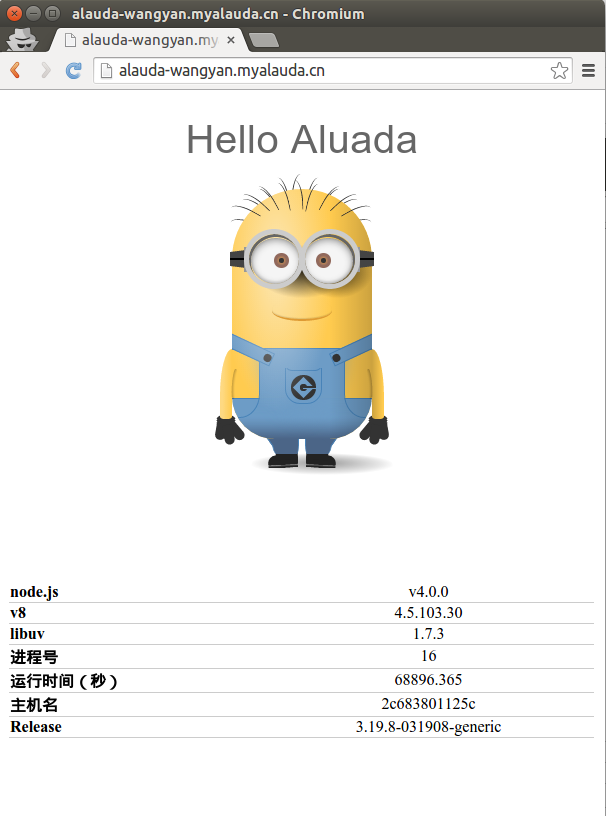
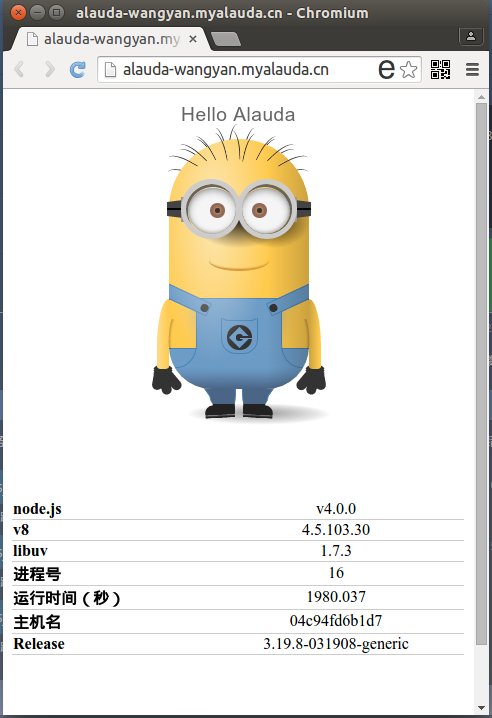
redis and scalability

Changed region(s): [[0.0, 0.0, 1.0, 1.0], [0.3049, 0.1532, 0.7012, 0.6128]]

diff --git a/public/index.html b/public/index.html
@@ -98,6 +98,7 @@
     <title></title>
     <link href="default.css" rel="stylesheet"/>
     <link href="styles.css" rel="stylesheet"/>
+    <script type='text/javascript'>window.BWEUM||(BWEUM={});BWEUM.info = {"stand":true,"agentType":"browser","agent":"tpm.oneapm.com/static/js/bw-send-411.4.5.js","beaconUrl":"tpm.oneapm.com/beacon","licenseKey":"Jib~uMZRriyjU2aE","applicationID":2270068};</script><script type="text/javascript">/*!OneAPM-v411.4.5 */!function(){window.NREUM||(window.NREUM={}),window.BWEUM||(window.BWEUM=window.NREUM);var a;window.BWEUM.require=a,window.apmFirstbyte=window.apmUserFirstbyte||(new Date).getTime(),a=function b(c,d,e){function f(h,i){if(!d[h]){if(!c[h]){var j="function"==typeof a&&a;if(!i&&j)return j(h,!0);if(g)return g(h,!0);var k=new Error("Cannot find module '"+h+"'");throw k.code="MODULE_NOT_FOUND",k}var l=d[h]={exports:{}};c[h][0].call(l.exports,function(a){var b=c[h][1][a];return f(b?b:a)},l,l.exports,b,c,d,e)}return d[h].exports}for(var g="function"==typeof a&&a,h=0;h<e.length;h++)f(e[h]);return f}({38:[function(a,b){b.exports=function(a){var b=document.createElement("a"),c=window.location,d={};b.href=a,d.port=b.port;var e=b.href.split("://");return!d.port&&e[1]&&(d.port=e[1].split("/")[0].split(":")[1]),d.port&&"0"!==d.port||(d.port="https"===e[0]?"443":"80"),d.hostname=b.hostname||c.hostname,d.pathname=b.pathname,"/"!==d.pathname.charAt(0)&&(d.pathname="/"+d.pathname),d.sameOrigin=!b.hostname||b.hostname===document.domain&&b.port===c.port&&b.protocol===c.protocol,d}},{}],34:[function(a,b){function c(){var a=m.info=window.BWEUM.info;if(a&&a.agent&&a.licenseKey&&a.applicationID&&i&&i.body){m.proto="https"===l.split(":")[0]||a.sslForHttp?"https://":"http://",g("mark",["onload",f()]);var b=i.createElement("script");b.src=0==a.agent.indexOf("//")?a.agent:m.proto+a.agent,b.src+="?v=411.4.5 ",i.body.appendChild(b)}}function d(){o||"complete"===i.readyState&&e()}function e(){g("mark",["domContent",f()])}function f(){return(new Date).getTime()}var g=a("handle"),h=window,i=h.document,j="addEventListener",k="attachEvent",l=(""+location).split("?")[0],m=b.exports={offset:window.apmFirstbyte||f(),origin:l,features:{}};g("mark",["firstbyte",window.apmFirstbyte||f()]),"complete"===document.readyState?(e(),c()):i[j]?(i[j]("DOMContentLoaded",e,!1),h[j]("load",c,!1)):(i[k]("onreadystatechange",d),h[k]("onload",c));var n=!1,o=!1;try{n=null==window.frameElement&&document.documentElement}catch(m){}n&&n.doScroll&&!function p(){if(!o){try{n.doScroll("left")}catch(a){return setTimeout(p,50)}o=!0,e()}}()},{handle:33}],33:[function(a,b){function c(a,b,c){return d.listeners(a).length?d.emit(a,b,c):(e[a]||(e[a]=[]),void e[a].push(b))}var d=a("ee").create(),e={};b.exports=c,c.ee=d,d.q=e},{ee:31}],36:[function(a,b){function c(a,b,c){b||(b=0),"undefined"==typeof c&&(c=a?a.length:0);for(var d=-1,e=c-b||0,f=new Array(0>e?0:e);++d<e;)f[d]=a[b+d];return f}b.exports=c},{}],31:[function(a,b){function c(a){function b(b,c,g){a&&a(b,c,g),g||(g={});var i=h(b),j=i.length,k={};try{k=f(g,e,d)}catch(l){}for(var m=0;j>m;m++)i[m].apply(k,c);return k}function g(a,b){j[a]=h(a).concat(b)}function h(a){return j[a]||[]}function i(){return c(b)}var j={};return{on:g,emit:b,create:i,listeners:h,_events:j}}function d(){return{}}var e="bw@context",f=a("gos");b.exports=c()},{gos:32}],32:[function(a,b){function c(a,b,c){if(d.call(a,b))return a[b];var e=c();if(Object.defineProperty&&Object.keys)try{return Object.defineProperty(a,b,{value:e,writable:!0,enumerable:!1}),e}catch(f){}try{a[b]=e}catch(f){}return e}var d=Object.prototype.hasOwnProperty;b.exports=c},{}]},{},[]),a=function c(b,d,e){function f(h,i){if(!d[h]){if(!b[h]){var j="function"==typeof a&&a;if(!i&&j)return j(h,!0);if(g)return g(h,!0);var k=new Error("Cannot find module '"+h+"'");throw k.code="MODULE_NOT_FOUND",k}var l=d[h]={exports:{}};b[h][0].call(l.exports,function(a){var c=b[h][1][a];return f(c?c:a)},l,l.exports,c,b,d,e)}return d[h].exports}for(var g="function"==typeof a&&a,h=0;h<e.length;h++)f(e[h]);return f}({1:[function(a){a("loader"),a("errorload"),a("xhrload"),a("perfload")},{errorload:5,loader:34,perfload:6,xhrload:7}],7:[function(a){function b(a){if("string"==typeof a&&a.length)return a.length;if("object"!=typeof a)return void 0;if("undefined"!=typeof ArrayBuffer&&a instanceof ArrayBuffer&&a.byteLength)return a.byteLength;if("undefined"!=typeof Blob&&a instanceof Blob&&a.size)return a.size;if("undefined"!=typeof FormData&&a instanceof FormData)return void 0;try{return JSON.stringify(a).length}catch(b){return void 0}}function c(a,b){return b}function d(a){a.send=o.wrapOld(a.send,"send-xhr-",c),a.onreadystatechange=o.wrapOld(a.onreadystatechange,"iexhr-onreadystatechange-",c),a.onerror=o.wrapOld(a.onerror,"iexhr-onerror-",c)}function e(a){var c=this.params,d=this.metrics;if(!this.ended){if(this.ended=!0,a.removeEventListener)for(var e=0;m>e;e++)a.removeEventListener(l[e],this.listener,!1);if(!c.aborted){if(d.duration=(new Date).getTime()-this.startTime,4===a.readyState){c.status=a.status;var f=a.responseType,g="arraybuffer"===f||"blob"===f||"json"===f?a.response:a.responseText,h=b(g);h&&(d.rxSize=h)}else c.status=0;d.cbTime=this.cbTime,c&&c.pathname&&c.pathname.indexOf("beacon/resources")<0&&i("xhr",[c,d,this.startTime,this.creatType])}}}function f(a,b){var c=j(b),d=a.params;d.host=c.hostname+":"+c.port,d.pathname=c.pathname,a.sameOrigin=c.sameOrigin}var g=window,h=(g.performance,window.XMLHttpRequest);if(h&&h.prototype&&!/CriOS/.test(navigator.userAgent)){a("loader").features.xhr=!0;var i=a("handle"),j=a("parse-url"),k=a("ee"),l=["load","error","abort","timeout"],m=l.length,n=a("loader_id"),o=a("wrap-function")(k);a("wrap-events"),a("wrap-xhr"),k.on("new-xhr",function(){this.totalCbs=0,this.called=0,this.cbTime=0,this.end=e,this.ended=!1,this.xhrGuids={}}),k.on("open-xhr-start",function(a){this.params={method:a[0]},f(this,a[1]),this.metrics={}}),k.on("open-xhr-end",function(a,b){b.__oldie&&d(b)}),k.on("send-xhr-start",function(a,c){var d=this.metrics,e=a[0],f=this;if(d&&e){var g=b(e);g&&(d.txSize=g)}if(this.startTime=(new Date).getTime(),this.listener=function(a){try{"abort"===a.type&&(f.params.aborted=!0),("load"!==a.type||f.called===f.totalCbs&&(f.onloadCalled||"function"!=typeof c.onload))&&f.end&&f.end(c)}catch(b){try{k.emit("internal-error",[b])}catch(d){}}},c.addEventListener)for(var h=0;m>h;h++)c.addEventListener(l[h],this.listener,!1)}),k.on("iexhr-onreadystatechange-start",function(a,b){if(1==b.readyState){var d=b.onreadystatechange;setTimeout(function(){b.onreadystatechange!==d&&(b.onreadystatechange=o.wrapOld(b.onreadystatechange,"iexhr-onreadystatechange-",c))},0)}4==b.readyState&&(this.xhrCbStart=(new Date).getTime())}),k.on("iexhr-onreadystatechange-end",function(a,b){var c=this;this.xhrCbStart&&k.emit("xhr-cb-time",[(new Date).getTime()-this.xhrCbStart,this.onload,b],b),4==b.readyState&&c.end(b)}),k.on("xhr-cb-time",function(a,b,c){this.cbTime+=a,b?this.onloadCalled=!0:this.called+=1,this.called!==this.totalCbs||!this.onloadCalled&&"function"==typeof c.onload||this.end(c)}),k.on("xhr-load-added",function(a,b){var c=""+n(a)+!!b;this.xhrGuids&&!this.xhrGuids[c]&&(this.xhrGuids[c]=!0,this.totalCbs+=1)}),k.on("xhr-load-removed",function(a,b){var c=""+n(a)+!!b;this.xhrGuids&&this.xhrGuids[c]&&(delete this.xhrGuids[c],this.totalCbs-=1)}),k.on("addEventListener-end",function(a,b){b instanceof XMLHttpRequest&&"load"===a[0]&&k.emit("xhr-load-added",[a[1],a[2]],b)}),k.on("removeEventListener-end",function(a,b){b instanceof XMLHttpRequest&&"load"===a[0]&&k.emit("xhr-load-removed",[a[1],a[2]],b)}),k.on("fn-start",function(a,b,c){b instanceof XMLHttpRequest&&("onload"===c&&(this.onload=!0),("load"===(a[0]&&a[0].type)||this.onload)&&(this.xhrCbStart=(new Date).getTime()))}),k.on("fn-end",function(a,b){this.xhrCbStart&&k.emit("xhr-cb-time",[(new Date).getTime()-this.xhrCbStart,this.onload,b],b)})}},{ee:31,handle:33,loader:34,loader_id:35,"parse-url":38,"wrap-events":28,"wrap-function":39,"wrap-xhr":30}],35:[function(a,b){function c(a){var b=typeof a;return!a||"object"!==b&&"function"!==b?-1:a===window?0:f(a,e,function(){return d++})}var d=1,e="bw@id",f=a("gos");b.exports=c},{gos:32}],6:[function(a){var b=window.performance;if(b&&b.timing&&b.getEntriesByType){var c=a("ee"),d=a("handle"),e=(a("wrap-timer"),a("loader"));e.features.stn=!0,c.on("fn-start",function(a){var b=a[0];b instanceof Event&&(this.bstStart=Date.now())}),c.on("fn-end",function(a,b){var c=a[0];c instanceof Event&&d("bst",[c,b,this.bstStart,Date.now()])})}},{ee:31,handle:33,loader:34,"wrap-timer":29}],5:[function(a){function b(a,b,d,g,i){try{j?j-=1:e("err",[i||new c(a,b,d)])}catch(k){try{e("ierr",[k,(new Date).getTime(),!0])}catch(l){}}return"function"==typeof h?h.apply(this,f(arguments)):!1}function c(a,b,c){this.message=a||"Uncaught error with no additional information",this.sourceURL=b,this.line=c}function d(a){e("err",[a,(new Date).getTime()])}var e=a("handle"),f=a("lodash._slice"),g=a("ee"),h=window.onerror,i=!1,j=0;a("loader").features.err=!0,window.onerror=b,window.BWEUM.noticeError=d;var k=window.XMLHttpRequest;try{throw new Error}catch(l){"stack"in l&&(a("wrap-timer"),"addEventListener"in window&&a("wrap-events"),k&&k.prototype&&k.prototype.addEventListener&&a("wrap-xhr"),i=!0)}g.on("fn-start",function(){i&&(j+=1)}),g.on("fn-err",function(a,b,c){i&&(this.thrown=!0,d(c))}),g.on("fn-end",function(){i&&!this.thrown&&j>0&&(j-=1)}),g.on("internal-error",function(a){e("ierr",[a,(new Date).getTime(),!0])})},{ee:31,handle:33,loader:34,"lodash._slice":36,"wrap-events":28,"wrap-timer":29,"wrap-xhr":30}],30:[function(a,b){function c(){j.inPlace(this,m,"fn-")}function d(a,b){j.inPlace(b,["onreadystatechange"],"fn-")}function e(a){a.open=j.wrapOld(a.open,"open-xhr-",f)}function f(a,b){return b}var g=a("ee").create(),h=a("wrap-events"),i=a("wrap-function"),j=i(g),k=i(h),l=window.XMLHttpRequest,m=["onload","onerror","onabort","onloadstart","onloadend","onprogress","ontimeout"];b.exports=g,window._ApmXMLHttpRequest=window.XMLHttpRequest,window.XMLHttpRequest=function(a){var b=new l(a);try{g.emit("new-xhr",[],b),l.prototype.addEventListener?(k.inPlace(b,["addEventListener","removeEventListener"],"-",function(a,b){return b}),b.addEventListener("readystatechange",c,!1)):(b.__oldie=!0,e(b))}catch(d){try{g.emit("internal-error",[d])}catch(f){}}return b},window.XMLHttpRequest.prototype=l.prototype,j.inPlace(XMLHttpRequest.prototype,["open","send"],"-xhr-",f),g.on("send-xhr-start",d),g.on("open-xhr-start",d)},{ee:31,"wrap-events":28,"wrap-function":39}],29:[function(a,b){function c(a,b,c){var d=a[0];"string"==typeof d&&(d=new Function(d)),a[0]=e(d,"fn-",null,c)}var d=(a("lodash._slice"),a("ee").create()),e=a("wrap-function")(d);b.exports=d,e.inPlace(window,["setTimeout","setInterval","setImmediate"],"setTimer-"),d.on("setTimer-start",c)},{ee:31,"lodash._slice":36,"wrap-function":39}],28:[function(a,b){function c(a){f.inPlace(a,["addEventListener","removeEventListener"],"-",d)}function d(a){return a[1]}var e=(a("lodash._slice"),a("ee").create()),f=a("wrap-function")(e),g=a("gos");if(b.exports=e,c(window),"getPrototypeOf"in Object){for(var h=document;h&&!h.hasOwnProperty("addEventListener");)h=Object.getPrototypeOf(h);h&&c(h);for(var i=XMLHttpRequest.prototype;i&&!i.hasOwnProperty("addEventListener");)i=Object.getPrototypeOf(i);i&&c(i)}else Object.prototype.hasOwnProperty.call(XMLHttpRequest,"addEventListener")&&c(XMLHttpRequest.prototype);e.on("addEventListener-start",function(a){if(a[1]){var b=a[1];"function"==typeof b?this.wrapped=a[1]=g(b,"bw@wrapped",function(){return f(b,"fn-",null,b.name||"anonymous")}):"function"==typeof b.handleEvent&&f.inPlace(b,["handleEvent"],"fn-")}}),e.on("removeEventListener-start",function(a){var b=this.wrapped;b&&(a[1]=b)})},{ee:31,gos:32,"lodash._slice":36,"wrap-function":39}],39:[function(a,b){function c(a){return!(a&&"function"==typeof a&&a.apply&&!a[f])}var d=a("ee"),e=a("lodash._slice"),f="bw@wrapper",g=Object.prototype.hasOwnProperty;b.exports=function(a){function b(a,b,d,g,i){function j(){var c=this;return h(a,b,c,e(arguments),d,g,i)}if(c(a))return a;b||(b="");try{j[f]=!0}catch(k){}return l(a,j),j}function h(a,b,c,d,e,f){var d,c,g,h;try{g=e&&e(d,c)||{}}catch(i){m([i,"",[d,c,f],g])}_apmfnName=a.name||"",k(b+"start",[d,c,f,_apmfnName],g);try{return h=a.apply(c,d)}catch(j){var l=window.console;throw void 0!=l&&l.error&&l.log&&void 0!=j.stack&&(l.log("OneAPM  catch  error"),l.error(j.stack)),k(b+"err",[d,c,j],g),j}finally{k(b+"end",[d,c,h,_apmfnName],g)}}function i(a,b,c){var a=a||function(){},b=b||"-";return function(){var d=this;return h(a,b,d,e(arguments),c)}}function j(a,d,e,f){e||(e="");var g,h,i,j="-"===e.charAt(0);for(i=0;i<d.length;i++)h=d[i],g=a[h],c(g)||(a[h]=b(g,j?h+e:e,f,h,a))}function k(b,c,d){try{a.emit(b,c,d)}catch(e){m([e,b,c,d])}}function l(a,b){if(Object.defineProperty&&Object.keys)try{var c=Object.keys(a);return c.forEach(function(c){Object.defineProperty(b,c,{get:function(){return a[c]},set:function(b){return a[c]=b,b}})}),b}catch(d){m([d])}for(var e in a)g.call(a,e)&&(b[e]=a[e]);return b}function m(b){try{a.emit("internal-error",b)}catch(c){}}return a||(a=d),b.inPlace=j,b.flag=f,b.wrapOld=i,b}},{ee:31,"lodash._slice":36}]},{},[1]),window.BWEUM.require=a}();</script>
 </head>
 <body>
 <div class="container">

diff --git a/README.md b/README.md
@@ -18,7 +18,7 @@ Demo 应用主要包括：
 - 使用 jQuery 给它加上一点点交互，这样小黄人身上的部位就可以被点击
 - 使用 Node.JS 4.0.0 + Express 作为服务器
 - 点击某个部位的时候会发送 AJAX 请求到后端， 然后请求被 Express 相应的路由接受并返回
-- TODO: 使用 Redis 统计每个部位的点击数
+- 使用 Redis 统计每个部位的点击数
 
 ## 创建代码库
 
@@ -146,6 +146,22 @@ OneAPM
 
 OneAPM 的视角是自顶向下的，能够细分不同请求的吞吐量，响应时间，错误率等等，功能非常多。
 而灵雀云的监控则是自底向上的，对流量的监控是整体的，并且精确到了字节。
+
+**监控Redis**
+
+使用 OneAPM 可以看到 `Redis` 的使用情况，详细到每个 `Express` 路由里的调用次数：
+
+![Redis](public/screenshot_redis.png)
+
+## 扩容
+
+假设某一天流量太大了，服务器有点扛不住，这个时候只需要登录灵雀云，手动修改一下容器实例的个数（这个工作也可以交给灵雀云来自动完成）。
+
+![Scale](public/screenshot_scale_alauda.png)
+
+等待容器启动完成，之后的流量会分摊到所有的机器上。从 OneAPM 的后端可以清楚地看到每个容器的负载情况。
+
+![Scale](public/screenshot_scale.png)
 
 ## 总结
 
